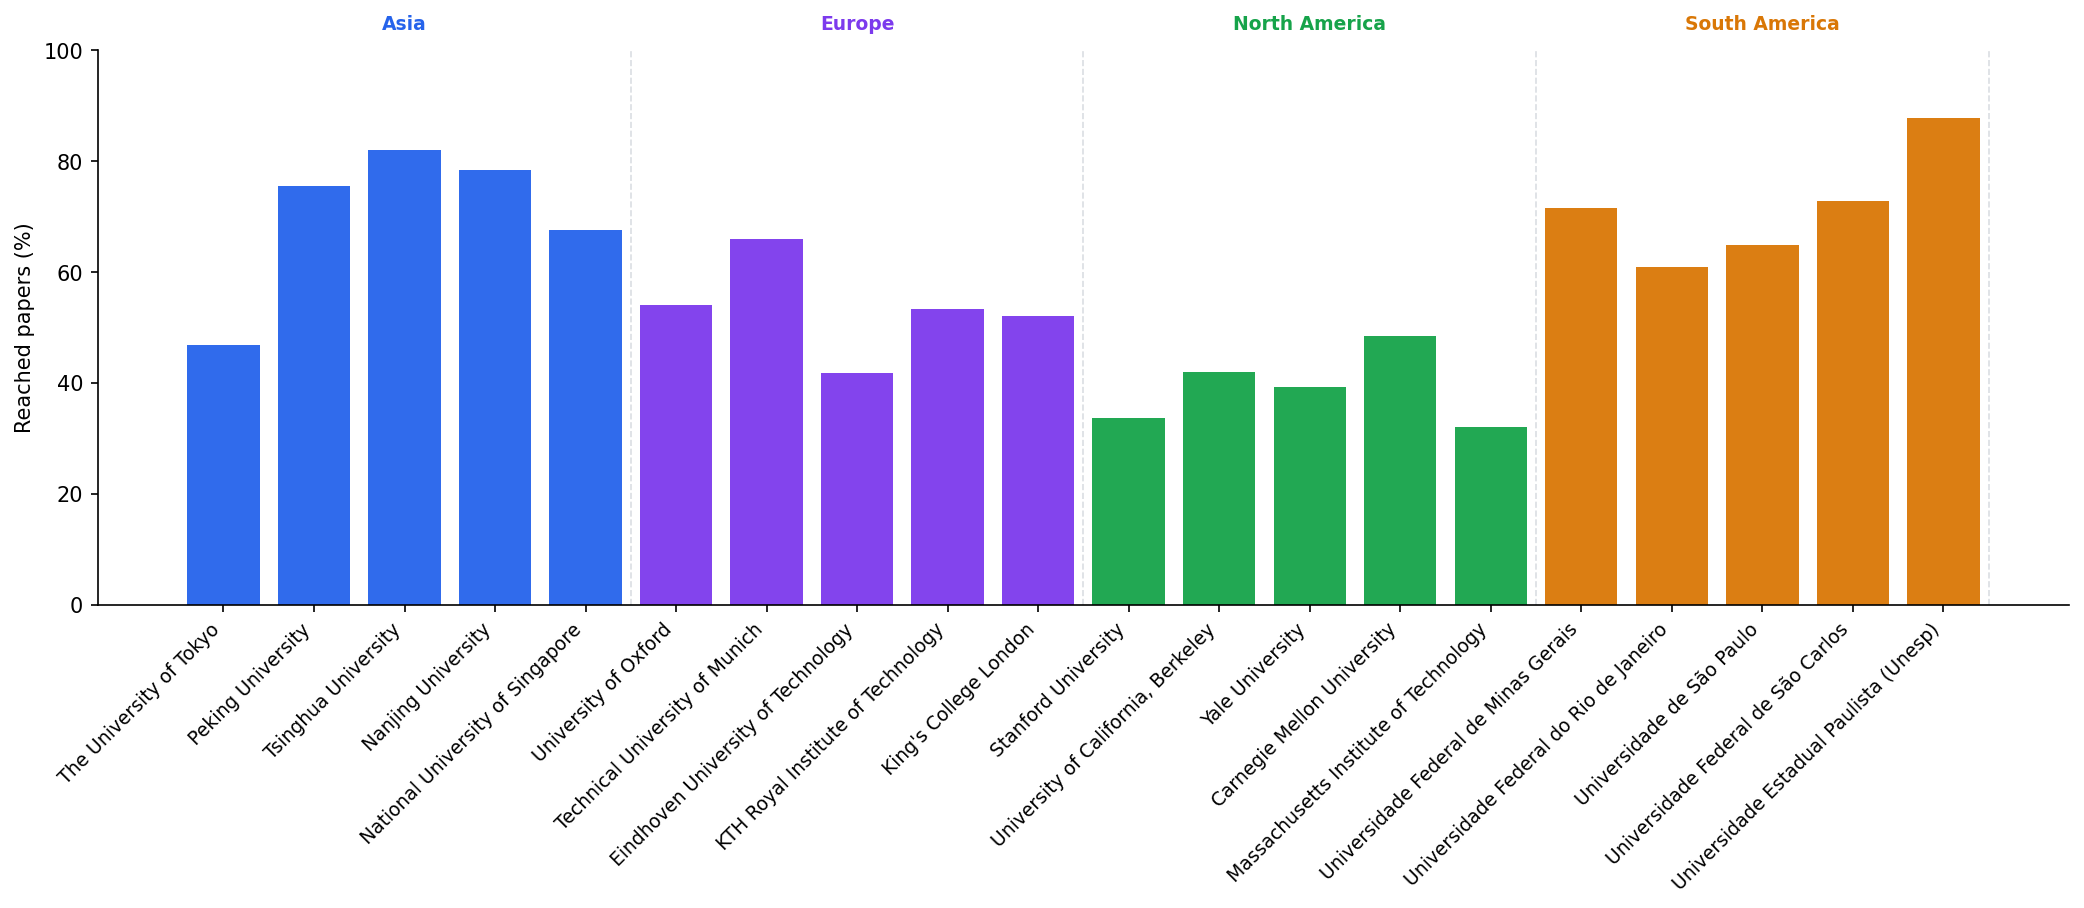
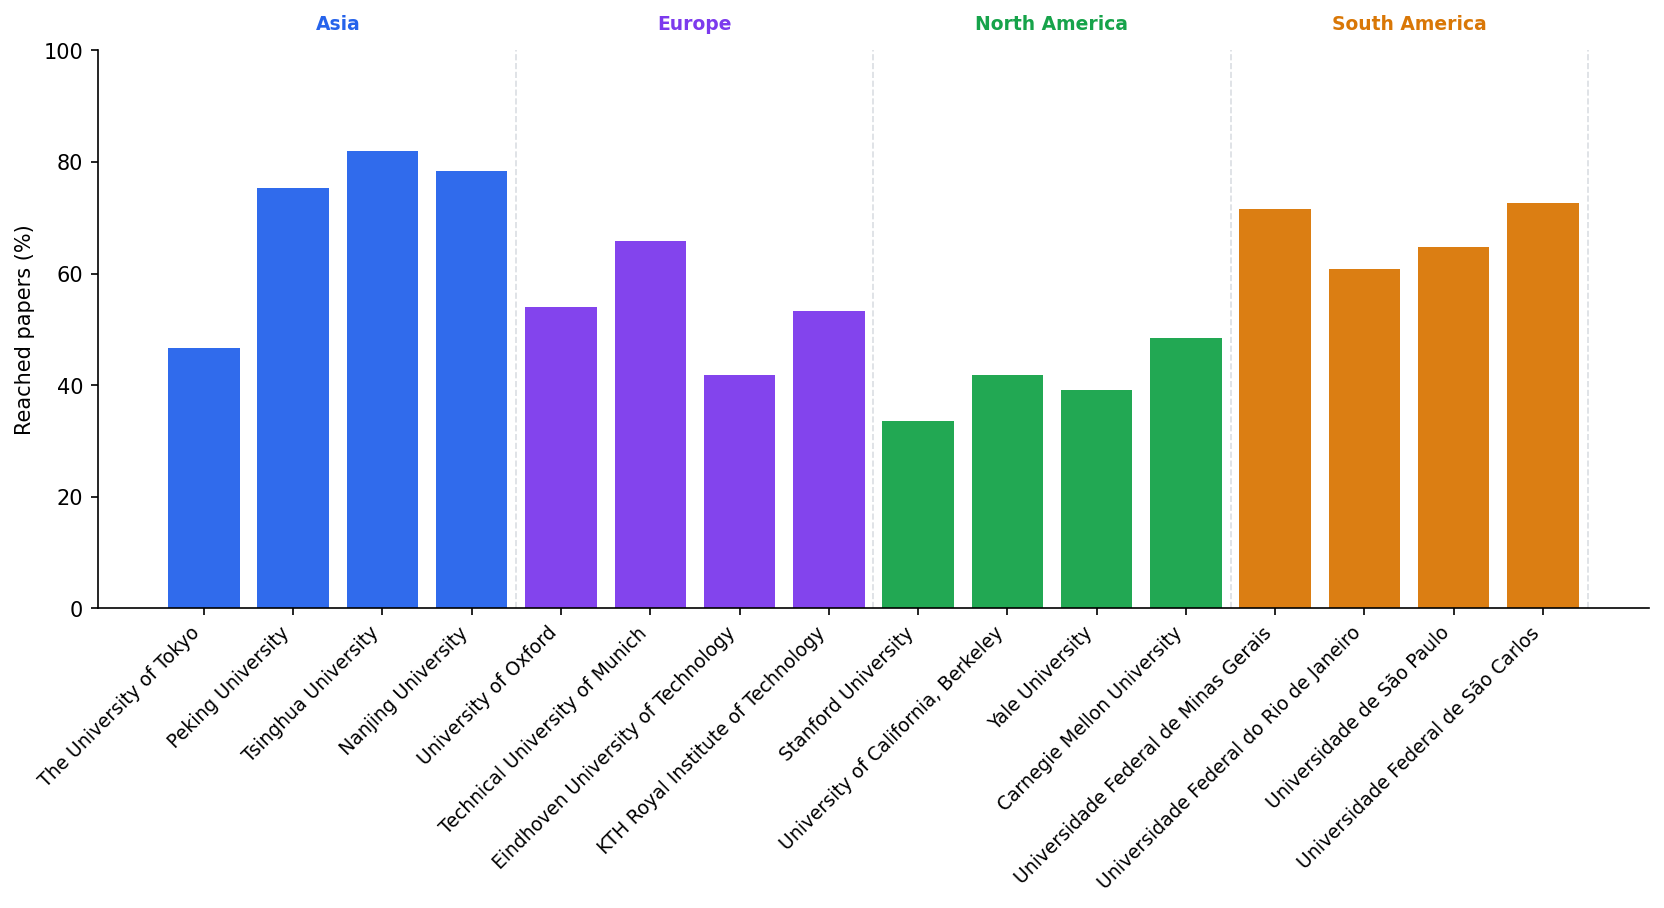
Final commit

diff --git a/analysis/distances.py b/analysis/distances.py
@@ -475,8 +475,7 @@ def build_comparative_report(thresholds_results: list[dict]) -> str:
 # Figures
 # ---------------------------------------------------------------------------
 
-def _style_ax(ax, title, xlabel, ylabel, logy=False):
-    ax.set_title(title, fontsize=13, fontweight="bold", pad=10)
+def _style_ax(ax, xlabel, ylabel, logy=False):
     ax.set_xlabel(xlabel, fontsize=11)
     ax.set_ylabel(ylabel, fontsize=11)
     ax.spines[["top", "right"]].set_visible(False)
@@ -511,15 +510,10 @@ def plot_distances(dist_all: dict, unicamp_ids: set, min_citations: int = None):
     ax.axvline(mean_d, color=PALETTE["red"], linewidth=1.5, linestyle="--",
                label=f"Média = {mean_d:.2f}")
     ax.legend(fontsize=10)
-    if min_citations is not None:
-        title = f"Distância dos Artigos do IC ao Artigo de Alto Impacto Mais Próximo\n(limiar: ≥ {min_citations:,} citações)"
-    else:
-        title = "Distância dos Artigos do IC ao Artigo de Alto Impacto Mais Próximo\n(lista personalizada de artigos)"
     _style_ax(
         ax,
-        title,
         "Distância Mínima (hops)",
-        "Número de Artigos do IC",
+        "Número de Artigos da Unicamp",
     )
     _savefig(fig, os.path.join(FIGURES_DIR, "distances_ic_to_highimpact.png"))
 
@@ -532,15 +526,10 @@ def plot_distances(dist_all: dict, unicamp_ids: set, min_citations: int = None):
     ax.set_yticks(np.arange(0, 1.1, 0.1))
     ax.yaxis.set_major_formatter(ticker.PercentFormatter(xmax=1))
     ax.set_xticks(xs)
-    if min_citations is not None:
-        title = f"CDF — Distância dos Artigos do IC ao Alto Impacto Mais Próximo\n(limiar: ≥ {min_citations:,} citações)"
-    else:
-        title = "CDF — Distância dos Artigos do IC ao Alto Impacto Mais Próximo\n(lista personalizada de artigos)"
     _style_ax(
         ax,
-        title,
         "Distância Mínima (hops)",
-        "Fração Acumulada de Artigos do IC",
+        "Fração Acumulada de Artigos da Unicamp",
     )
     _savefig(fig, os.path.join(FIGURES_DIR, "distances_ic_cdf.png"))
 
@@ -561,18 +550,13 @@ def plot_all_distances(dist_all: dict, unicamp_ids: set, min_citations: int = No
     fig, ax = plt.subplots(figsize=(9, 5))
     ax.bar(xs, ys_all, color=PALETTE["gray"], alpha=0.6, label="Todos os artigos",
            edgecolor="white", linewidth=0.4, width=0.8)
-    ax.bar(xs, ys_ic, color=PALETTE["orange"], alpha=0.85, label="Artigos do IC",
+    ax.bar(xs, ys_ic, color=PALETTE["orange"], alpha=0.85, label="Artigos da Unicamp",
            edgecolor="white", linewidth=0.4, width=0.8)
     ax.set_xticks(xs)
     ax.set_yscale("log")
     ax.legend(fontsize=10)
-    if min_citations is not None:
-        title = f"Distribuição de Distâncias ao Alto Impacto Mais Próximo (Escala Log)\n(limiar: ≥ {min_citations:,} citações)"
-    else:
-        title = "Distribuição de Distâncias ao Alto Impacto Mais Próximo (Escala Log)\n(lista personalizada de artigos)"
     _style_ax(
         ax,
-        title,
         "Distância Mínima (hops)",
         "Número de Artigos (Escala Log)",
         logy=True,
@@ -605,7 +589,6 @@ def plot_distance_vs_year(dist_all: dict, unicamp_ids: set, meta: dict):
         ax.legend(fontsize=10)
     _style_ax(
         ax,
-        "Distância de difusão vs. Ano de publicação\n(Artigos do IC no maior WCC)",
         "Ano de publicação",
         "Distância mínima (hops)",
     )
@@ -631,7 +614,6 @@ def plot_distance_vs_citations(dist_all: dict, unicamp_ids: set, meta: dict):
     ax.set_xscale('log')  # citations vary widely
     _style_ax(
         ax,
-        "Distância de difusão vs. Número de citações globais\n(Artigos do IC no maior WCC)",
         "Número de citações (escala log)",
         "Distância mínima (hops)",
     )

diff --git a/analysis/centrality.py b/analysis/centrality.py
@@ -234,7 +234,7 @@ def build_report(pagerank: dict, in_degree: dict, meta: dict, unicamp_ids: set,
 # ---------------------------------------------------------------------------
 
 def _style_ax(ax, title, xlabel, ylabel, logx=False, logy=False):
-    ax.set_title(title, fontsize=13, fontweight="bold", pad=10)
+    # ax.set_title(title, fontsize=13, fontweight="bold", pad=10)
     ax.set_xlabel(xlabel, fontsize=11)
     ax.set_ylabel(ylabel, fontsize=11)
     ax.spines[["top", "right"]].set_visible(False)
